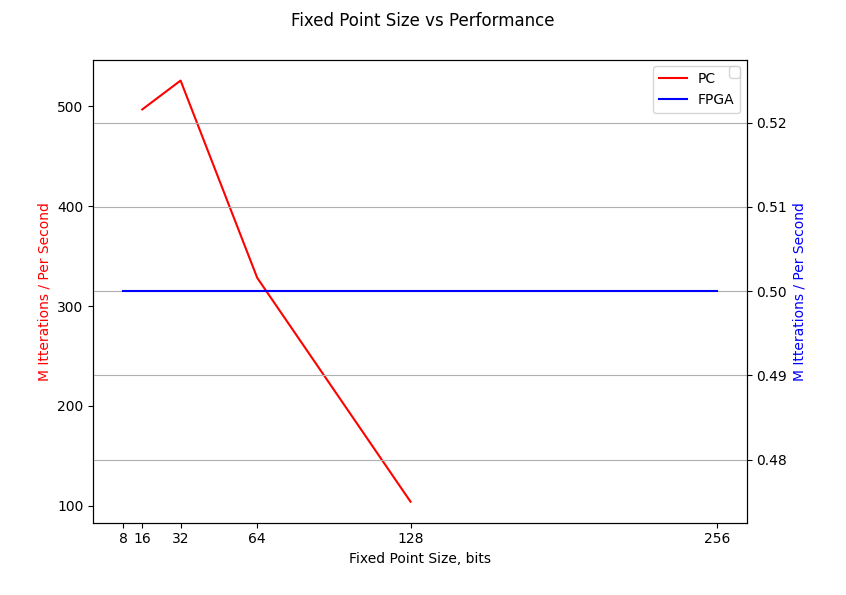
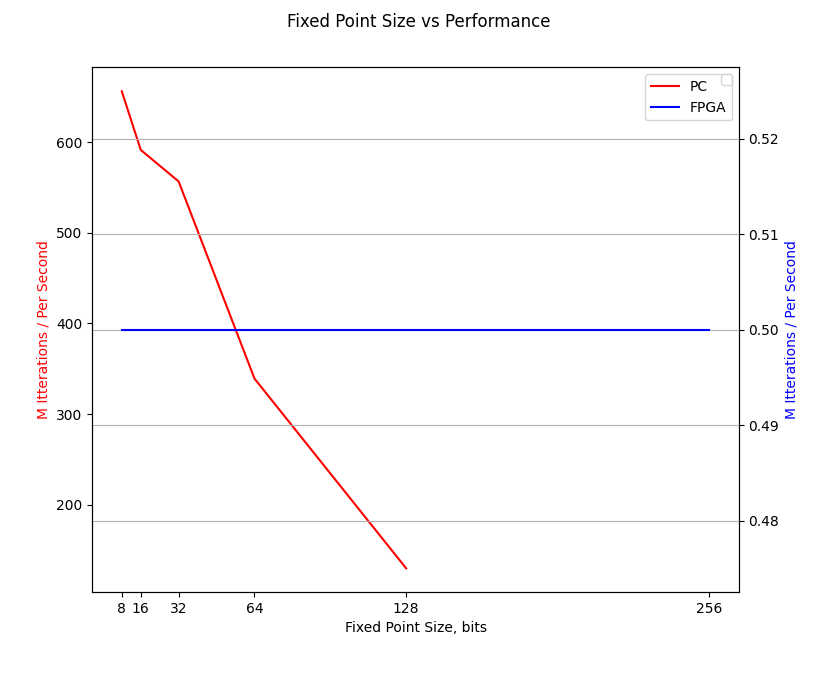
Updated comparision test

diff --git a/bench/rust-bench/src/main.rs b/bench/rust-bench/src/main.rs
@@ -1,6 +1,6 @@
-use std::{any::type_name, vec};
-
 use fixed::{traits::Fixed, types::extra::*, *};
+use rand::Rng;
+use std::any::type_name;
 
 fn calculate_mandelbrot<T: Fixed>(x0: T, y0: T, max_itterations: u64) -> u64 {
     let bound_radius = T::from_num(4);
@@ -26,8 +26,8 @@ fn calculate_mandelbrot<T: Fixed>(x0: T, y0: T, max_itterations: u64) -> u64 {
 }
 
 fn perform_test<T: Fixed>() -> f64 {
-    let x = T::from_num(0.2f64);
-    let y = T::from_num(0.2f64);
+    let x = T::from_num(rand::random::<f64>() * 0.2);
+    let y = T::from_num(rand::random::<f64>() * 0.2);
 
     let max_itterations = 1_000_000_000;
 
@@ -36,6 +36,7 @@ fn perform_test<T: Fixed>() -> f64 {
 
     println!("Fixed point type: {:?}", type_name::<T>());
 
+    println!("Point: ({}, {})", x, y);
     println!("Itterations: {}", itterations);
     println!("Time: {:?}", start_time.elapsed());
 

diff --git a/bench/rust-bench/plot-result.py b/bench/rust-bench/plot-result.py
@@ -3,14 +3,20 @@ import matplotlib
 matplotlib.use("tkagg")
 import matplotlib.pyplot as plt
 
+# AMD Ryzen 7 7700 8-Core Processor, 4.3 GHz
+# Ubuntu 20.04, Linux 6.5.0
+# 32GB DDR5
+# 1TB NVMe SSD
 pc_results = [
-    # (8, 98823994465856.31),
-    (16, 497014305.3470466),
-    (32, 525937757.869748),
-    (64, 328267428.9593108),
-    (128, 104028539.73886263),
+    (8, 656360660),
+    (16, 591629608),
+    (32, 556760071),
+    (64, 339173176),
+    (128, 129761740),
 ]
 
+# DE10-Nano, Cyclone V SoC
+# Debian 12, Linux 6.1.68
 fpga_results = [
     (8, 500_000),
     (16, 500_000),
